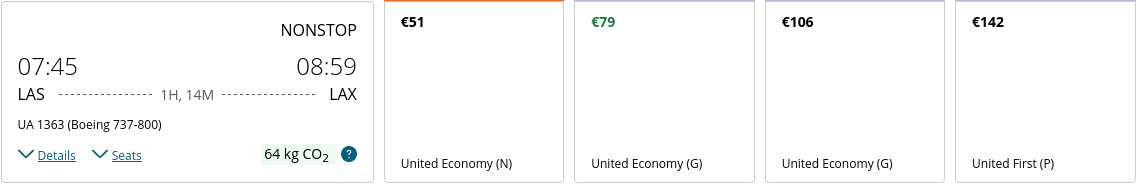
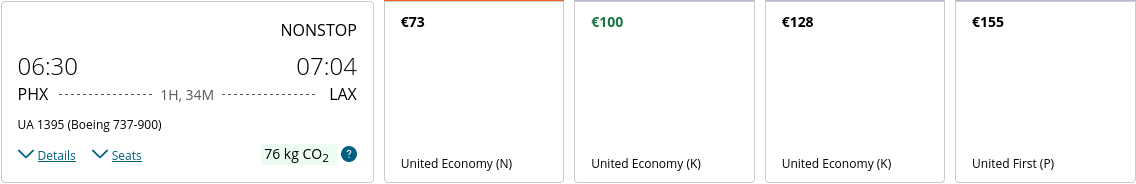
Latest scraping states: Sun Aug  6 11:36:59 UTC 2023

diff --git a/scrapes/states/united-01-05.md b/scrapes/states/united-01-05.md
@@ -2,46 +2,46 @@ Flight Information
 
 NONSTOP
 
-07:45Departing at 07:45
+06:30Departing at 06:30
 
-08:59Arriving at 08:59
+07:04Arriving at 07:04
 
-LASOrigin Las Vegas, NV, US (LAS)
+PHXOrigin Phoenix, AZ, US (PHX)
 
-1H, 14MDuration 1 hours and 14 minutes
+1H, 34MDuration 1 hours and 34 minutes
 
 LAXDestination Los Angeles, CA, US (LAX)
 
-UA 1363 (Boeing 737-800)Flight Number UA 1363. Aircraft Boeing 737-800
+UA 1395 (Boeing 737-900)Flight Number UA 1395. Aircraft Boeing 737-900
 
 DetailsSeats
 
-64 kg CO<sub>2</sub>Carbon emissions estimate: 64 kilograms. This is a lower emissions flight.
+76 kg CO<sub>2</sub>Carbon emissions estimate: 76 kilograms. This is a lower emissions flight.
 
 Learn more about carbon emissions
 
 Economy
 
-€79
+€100
 
-United Economy (G)
+United Economy (K)
 
 Add to cart
 
 Select fare for Economy
 
-€79
+€100
 
 Economy
 
-€79
+€100
 
-United Economy (G)
+United Economy (K)
 
 Add to cart
 
 Select fare for Economy
 
-€79
+€100
 
 ![](united-01-05.png)

diff --git a/scrapes/states/southwest-01-05.md b/scrapes/states/southwest-01-05.md
@@ -1,38 +1,26 @@
-* \# 1369 Opens flyout.
+* \# 189 Opens flyout.
     
-    Departs 7:15AM
+    Departs 6:25AM
     
-    Arrives 8:25AM
-    
-    Nonstop
-    
-    1h 10m
-    
-    64 Dollars$64
-    
-* \# 353 Opens flyout.
-    
-    Departs 8:20AM
-    
-    Arrives 9:35AM
+    Arrives 7:00AM
     
     Nonstop
     
-    1h 15m
+    1h 35m
     
-    80 Dollars$80
+    79 Dollars$79
     
-* \# 3666 Opens flyout.
+* \# 505 Opens flyout.
     
-    Departs 10:00AM
+    Departs 9:35AM
     
-    Arrives 11:20AM
+    Arrives 10:10AM
     
     Nonstop
     
-    1h 20m
+    1h 35m
     
-    104 Dollars$104
+    118 Dollars$118
     
 
 ![](southwest-01-05.png)

diff --git a/scrapes/states/southwest-12-29.md b/scrapes/states/southwest-12-29.md
@@ -1,0 +1,50 @@
+* \# 756 Opens flyout.
+    
+    Departs 6:25AM
+    
+    Arrives 8:50AM
+    
+    Nonstop
+    
+    1h 25m
+    
+    163 Dollars$163
+    
+* \# 1218 Opens flyout.
+    
+    Departs 8:25AM
+    
+    Arrives 10:40AM
+    
+    Nonstop
+    
+    1h 15m
+    
+    163 Dollars$163
+    
+* \# 2040 Opens flyout.
+    
+    Departs 9:50AM
+    
+    Arrives 12:10PM
+    
+    Nonstop
+    
+    1h 20m
+    
+    163 Dollars$163
+    
+* \# 1743 Opens flyout.
+    
+    Departs 11:40AM
+    
+    Arrives 2:00PM
+    
+    Nonstop
+    
+    1h 20m
+    
+    163 Dollars$163
+    
+
+![](southwest-12-29.png)

diff --git a/scrapes/states/southwest-01-04.md b/scrapes/states/southwest-01-04.md
@@ -1,26 +1,26 @@
-* \# 1643 Opens flyout.
+* \# 2002 Opens flyout.
     
-    Departs 6:20PM
+    Departs 7:00PM
     
-    Arrives 7:35PM
-    
-    Nonstop
-    
-    1h 15m
-    
-    64 Dollars$64
-    
-* \# 2815 Opens flyout.
-    
-    Departs 9:50PM
-    
-    Arrives 11:00PM
+    Arrives 7:30PM
     
     Nonstop
     
-    1h 10m
+    1h 30m
     
-    64 Dollars$64
+    79 Dollars$79
+    
+* \# 2467 Opens flyout.
+    
+    Departs 9:40PM
+    
+    Arrives 10:05PM
+    
+    Nonstop
+    
+    1h 25m
+    
+    79 Dollars$79
     
 
 ![](southwest-01-04.png)
